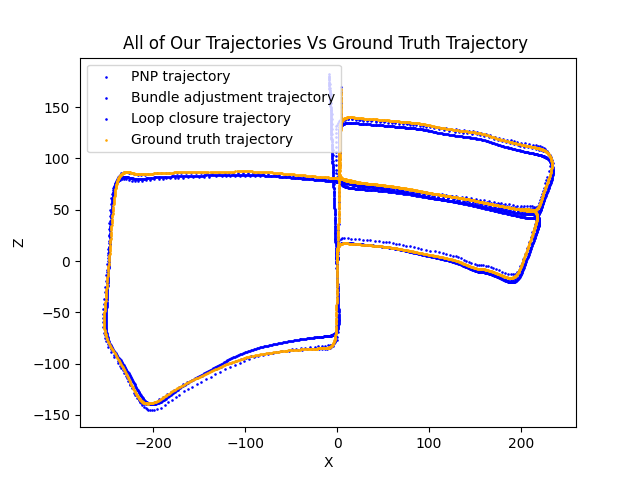
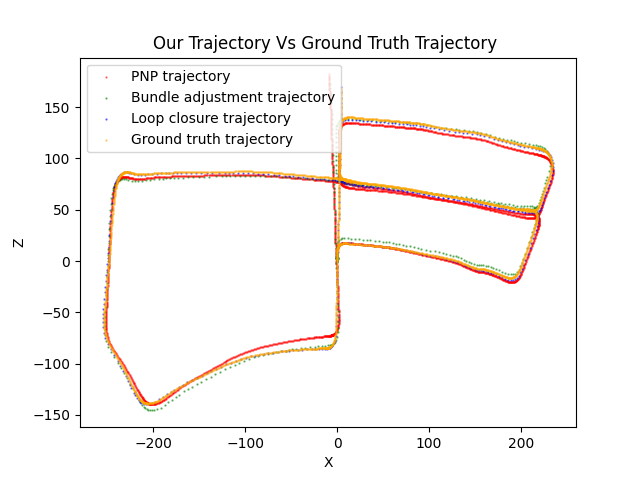
added documentations where needed. Also added exception handling

Changed region(s): [[0.1562, 0.1562, 0.875, 0.8125], [0.1875, 0.0625, 0.8125, 0.125], [0.1875, 0.75, 0.2812, 0.875]]

diff --git a/models/TrajectorySolver.py b/models/TrajectorySolver.py
@@ -31,9 +31,18 @@ class TrajectorySolver:
         raise NotImplementedError("Subclasses should implement this!")
 
     def get_camera_positions(self):
+        """
+        Getter method for camera positions.
+
+        Returns:
+            list: List of camera positions.
+        """
         return self._track_db.camera_positions
 
     def _load_tracks_to_db(self):
+        """
+        Method to load the tracks to the database.
+        """
         self.deserialization_result = self._track_db.deserialize(PATH_TO_SAVE_TRACKER_FILE)
 
         if self.deserialization_result == FAILURE:
@@ -41,12 +50,30 @@ class TrajectorySolver:
             self._track_db.serialize(PATH_TO_SAVE_TRACKER_FILE)
 
     def get_track_db(self):
+        """
+        Getter method for the track database.
+
+        Returns:
+            TrackDatabase: The track database object.
+        """
         return self._track_db
 
     def get_deserialization_result(self):
+        """
+        Getter method for the deserialization result.
+
+        Returns:
+            str: The result of the deserialization ('SUCCESS' or 'FAILURE').
+        """
         return self.deserialization_result
 
     def get_matcher(self):
+        """
+        Getter method for the Matcher object.
+
+        Returns:
+            Matcher: The Matcher object.
+        """
         return self.__matcher
 
 
@@ -65,8 +92,15 @@ class PNP(TrajectorySolver):
 
 
     def get_absolute_localization_error(self):
-        # Implement method to return PNP statistics here
-        pass
+        try:
+            plot_localization_error_over_time(np.arange(len(list(self._track_db.get_frameIds()))), self._track_db.camera_positions, self.gt_trajectory,
+                                              path="plots/pnp_localization_error_vs_key_frames", mode="PNP")
+
+        except AttributeError as e:
+            print(f"{e}.\nRunning solve_trajectory...")
+            self.solve_trajectory()
+
+
 
 
 class BundleAdjustment(TrajectorySolver):
@@ -109,22 +143,32 @@ class BundleAdjustment(TrajectorySolver):
 
     def compare_trajectory_to_gt(self):
         gt_camera_positions = get_gt_trajectory()
-        plot_trajectories(camera_positions=self.__global_Rt_poses_in_numpy, gt_camera_positions=gt_camera_positions,
-                          points_3d=None, path=PATH_TO_SAVE_COMPARISON_TO_GT)
+        try:
+            plot_trajectories(camera_positions=self.__global_Rt_poses_in_numpy, gt_camera_positions=gt_camera_positions,
+                              points_3d=None, path=PATH_TO_SAVE_COMPARISON_TO_GT)
+        except AttributeError as e:
+            print(f"{e}.\nRunning solve_trajectory...")
+            self.solve_trajectory()
+            plot_trajectories(camera_positions=self.__global_Rt_poses_in_numpy, gt_camera_positions=gt_camera_positions,
+                              points_3d=None, path=PATH_TO_SAVE_COMPARISON_TO_GT)
 
 
     def get_absolute_localization_error(self):
         try:
             plot_localization_error_over_time(self.key_frames, camera_positions=self.__global_Rt_poses_in_numpy,
                                           gt_camera_positions=get_gt_trajectory(), path=PATH_TO_SAVE_LOCALIZATION_ERROR_BUNDLE_ADJUSTMENT)
-        except Exception:
-            print("run solve trajectory first")
+        except AttributeError as e:
+            print(f"{e}.\nRunning solve_trajectory...")
+            self.solve_trajectory()
+            plot_localization_error_over_time(self.key_frames, camera_positions=self.__global_Rt_poses_in_numpy,
+                                              gt_camera_positions=get_gt_trajectory(),
+                                              path=PATH_TO_SAVE_LOCALIZATION_ERROR_BUNDLE_ADJUSTMENT)
+
 
     def get_camera_positions(self):
         return self.__global_Rt_poses_in_numpy
 
 class LoopClosure(TrajectorySolver):
-
 
     def __init__(self,track_db):
         super().__init__(track_db)
@@ -151,7 +195,7 @@ class LoopClosure(TrajectorySolver):
                                                                      optimized_relative_keyframes_poses,
                                                                      optimized_global_keyframes_poses,
                                                                      cond_matrices)
-        # kf_to_covariance = {self.key_frames[i + 1]: cond_matrices[i] for i in range(len(cond_matrices))}
+        kf_to_covariance = {self.key_frames[i + 1]: cond_matrices[i] for i in range(len(cond_matrices))}
         cond_matrices = [cond_matrix * 10 for cond_matrix in cond_matrices]
         self.__our_trajectory = optimized_global_keyframes_poses
         self.__pose_graph, self.__cur_pose_graph_estimates, self.__successful_lc = loop_closure(pose_graph, self.key_frames,
@@ -162,15 +206,29 @@ class LoopClosure(TrajectorySolver):
                                                                            points_to_stop_by=True
                                                                            )
 
-
     def compare_trajectory_to_gt(self):
-        plot_pg_locations_before_and_after_lc(self.__pose_graph, self.__cur_pose_graph_estimates)
+        try:
+            plot_pg_locations_before_and_after_lc(self.__pose_graph, self.__cur_pose_graph_estimates)
+        except AttributeError as e:
+            print(f"{e}.\nRunning solve_trajectory...")
+            self.solve_trajectory()
+            plot_pg_locations_before_and_after_lc(self.__pose_graph, self.__cur_pose_graph_estimates)
 
     def get_absolute_localization_error(self):
-        plot_pg_locations_error_graph_before_and_after_lc(self.__pose_graph, self.__cur_pose_graph_estimates)
+        try:
+            plot_pg_locations_error_graph_before_and_after_lc(self.__pose_graph, self.__cur_pose_graph_estimates)
+        except AttributeError as e:
+            print(f"{e}.\nRunning solve_trajectory...")
+            self.solve_trajectory()
+            plot_pg_locations_error_graph_before_and_after_lc(self.__pose_graph, self.__cur_pose_graph_estimates)
 
     def show_uncertainty(self):
-        plot_pg_uncertainty_before_and_after_lc(self.__pose_graph, self.__cur_pose_graph_estimates)
+        try:
+            plot_pg_uncertainty_before_and_after_lc(self.__pose_graph, self.__cur_pose_graph_estimates)
+        except AttributeError as e:
+            print(f"{e}.\nRunning solve_trajectory...")
+            self.solve_trajectory()
+            plot_pg_uncertainty_before_and_after_lc(self.__pose_graph, self.__cur_pose_graph_estimates)
 
     def get_camera_positions(self):
         return get_trajectory_from_graph(self.__cur_pose_graph_estimates)

diff --git a/main.py b/main.py
@@ -1,27 +1,31 @@
+import random
+from models.Constants import SEED
 from models.TrackDatabase import TrackDatabase
 from models.TrajectorySolver import PNP, BundleAdjustment, LoopClosure
 from utils.plotters import plot_multiple_trajectories
 from utils.utils import get_gt_trajectory
 
 if __name__ == "__main__":
+    random.seed(SEED)
     track_db = TrackDatabase()
 
     print("#################### Starting PNP segment ####################")
     pnp_solver = PNP(track_db)
     pnp_solver.solve_trajectory()
+    pnp_solver.get_absolute_localization_error()
     pnp_cam_pos = pnp_solver.get_camera_positions()
-    pnp_solver.compare_trajectory_to_gt()
+    # pnp_solver.compare_trajectory_to_gt()
     print("#################### Starting Bundle Adjustment segment ####################")
     bundle_adjustment_solver = BundleAdjustment(track_db)
     bundle_adjustment_solver.solve_trajectory()
     bundle_adjustment_cam_pos = bundle_adjustment_solver.get_camera_positions()
-    bundle_adjustment_solver.compare_trajectory_to_gt()
+    # bundle_adjustment_solver.compare_trajectory_to_gt()
 
     print("#################### Starting Loop Closure segment ####################")
     loop_closure_solver = LoopClosure(track_db)
     loop_closure_solver.solve_trajectory()
     loop_closure_cam_pos = loop_closure_solver.get_camera_positions()
-    loop_closure_solver.compare_trajectory_to_gt()
+    # loop_closure_solver.compare_trajectory_to_gt()
 
     plot_multiple_trajectories(pnp_cam_pos, bundle_adjustment_cam_pos, loop_closure_cam_pos, get_gt_trajectory(),
                                path="plots/all_trajectories_comparison")

diff --git a/utils/plotters.py b/utils/plotters.py
@@ -45,13 +45,13 @@ def plot_uncertainty_over_time(keyframes, uncertainty_score, path="", suffix="")
         plt.show()
 
 
-def plot_localization_error_over_time(keyframes, camera_positions, gt_camera_positions, path=""):
+def plot_localization_error_over_time(keyframes, camera_positions, gt_camera_positions, path="", mode=""):
     plt.figure()
     localization_error = np.linalg.norm(np.abs(camera_positions - gt_camera_positions), axis=1)
     plt.plot(keyframes, localization_error)
     plt.xlabel("KeyFrame Index")
     plt.ylabel("Localization error (meters)")
-    plt.title("KeyFrame Localization Error Over Time")
+    plt.title(f"{mode} KeyFrame Localization Error Over Time")
     if path:
         plt.savefig(path)
     else:

diff --git a/models/Constants.py b/models/Constants.py
@@ -58,5 +58,5 @@ PATH_TO_SAVE_COMPARISON_TO_GT = "plots/compare_to_ground_truth"
 PATH_TO_SAVE_LOCALIZATION_ERROR_LOOP_CLOSURE_AFTER = "plots/localization_error_LOOP_CLOSURE_AFTER"
 PATH_TO_SAVE_LOCALIZATION_ERROR_LOOP_CLOSURE_BEFORE = "plots/localization_error_LOOP_CLOSURE_BEFORE"
 PATH_TO_SAVE_2D_TRAJECTORY_LOOP_CLOSURE = "plots/2d_view_of_the_entire_scene_LOOP_CLOSURE"
-
+SEED = 6
 

diff --git a/utils/utils.py b/utils/utils.py
@@ -8,8 +8,9 @@ import tqdm
 import gtsam
 from tqdm import tqdm
 
-from models.Constants import VERTICAL_REPRESENTATION
+from models.Constants import VERTICAL_REPRESENTATION, SEED
 from models.TrackDatabase import TrackDatabase
+random.seed(SEED)
 # from plotters import draw_3d_points, plot_regions_around_matching_pixels
 
 MAC_OS_PATH = "VAN_ex/dataset/sequences/05/"
